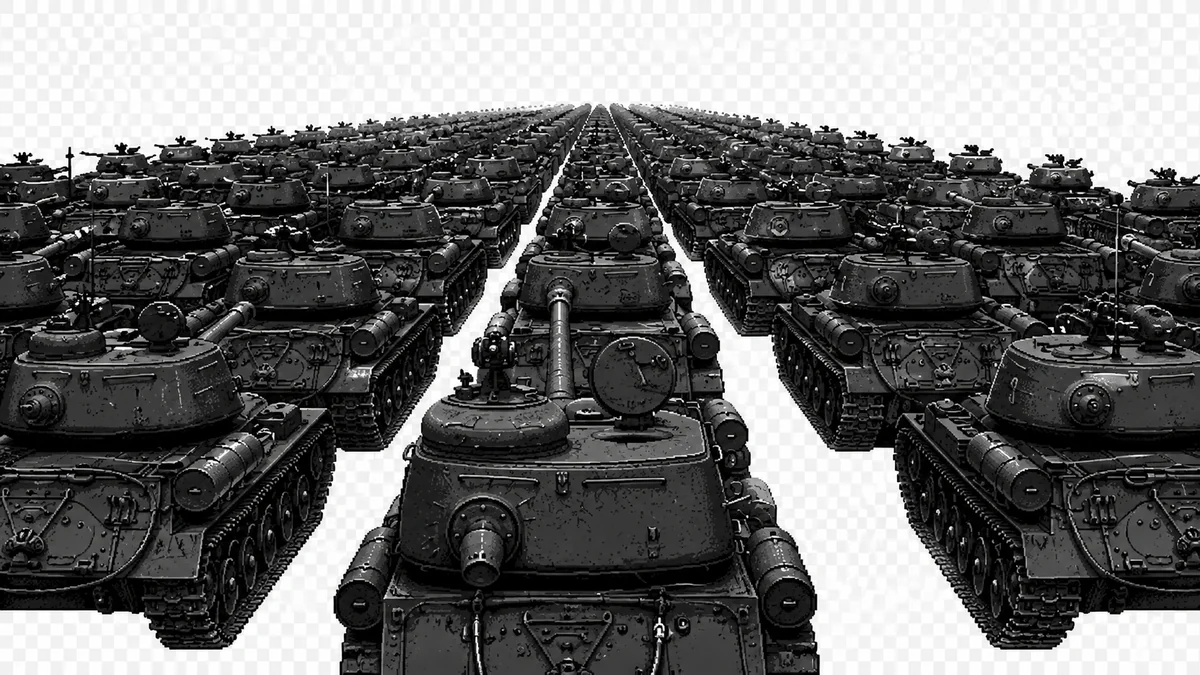
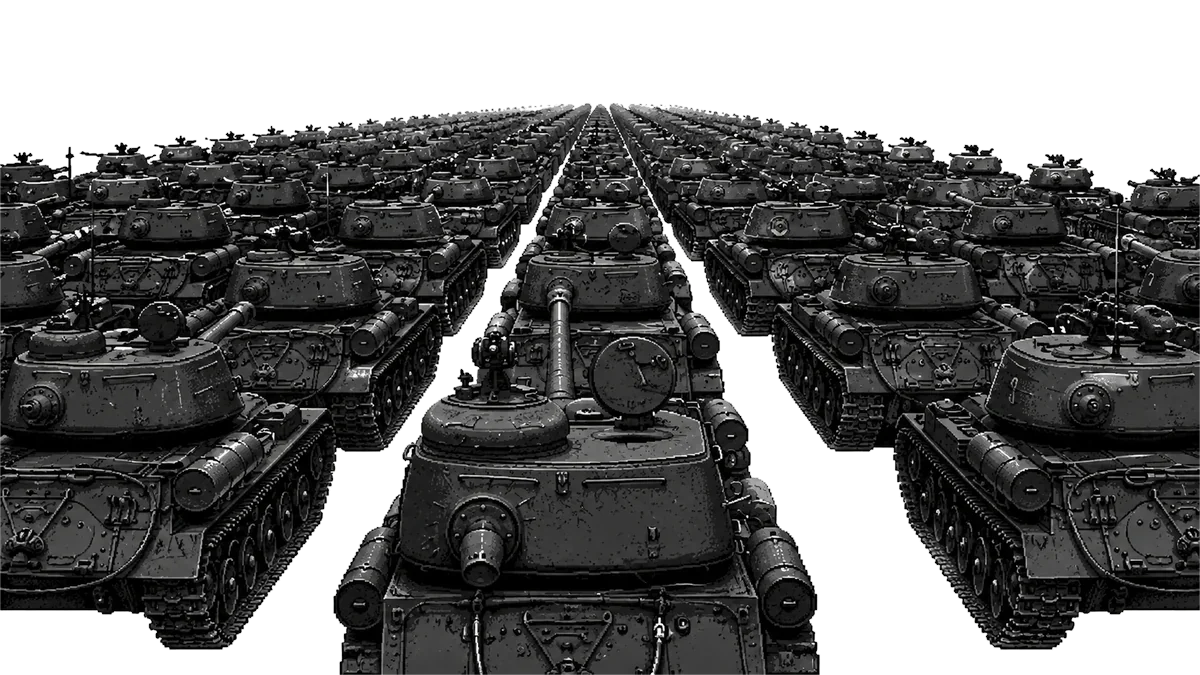
fix(menu): kill the white flash on scene cross-fade — chroma-key ALL silhouettes transparent
The white-bg scenes rendered via mix-blend multiply; CSS opacity on .hero-scene (the cross-fade) isolates
the group, so the white background flashed through mid-transition. Fix: border flood-fill chroma-keyed the
4 white-bg sources (Родина, parade, St Basil's, tanks) to true transparency, so ALL 6 now render with
normal blend (.alpha) — opacity-fading transparent images can't show white. Bumped .alpha brightness
.3→.46 so the photographic scenes (parade/tanks) keep their detail while the statues stay dark. Verified:
a 2-scene overlap blends cleanly with zero white.

Changed region(s): [[0.2775, 0.9956, 0.6783, 1.0]]

diff --git a/index.html b/index.html
@@ -661,7 +661,7 @@
       mix-blend-mode: multiply; filter: contrast(1.08) saturate(1.05);
       animation: heroDrift 30s ease-in-out infinite alternate; -webkit-user-drag: none; user-select: none; }
     /* transparent-background source (no white to drop): show opaque + deepen to a dark monument silhouette */
-    .hero-scene > .sil-img.alpha { mix-blend-mode: normal; filter: brightness(.3) contrast(1.32) saturate(.4) drop-shadow(0 8px 26px rgba(0,0,0,.55)); }
+    .hero-scene > .sil-img.alpha { mix-blend-mode: normal; filter: brightness(.46) contrast(1.26) saturate(.45) drop-shadow(0 8px 26px rgba(0,0,0,.5)); }
     /* wide scene (a panoramic frieze, e.g. a parade): span the width, anchored at the bottom */
     .hero-scene.wide > .sil-img { height: auto; width: 104%; bottom: -2%; }
     .hero-scene.wide > .sil-img.alpha { width: 100%; }
@@ -846,7 +846,7 @@
       <!-- rotating monument tableaux (one .on at a time; JS cycles) -->
       <!-- 1 · РОДИНА-МАТЬ ЗОВЁТ — striding woman, sword thrust high, cloak streaming -->
       <div class="hero-scene on" data-cap="РОДИНА-МАТЬ ЗОВЁТ" data-en="The Motherland Calls">
-        <img class="sil-img" src="./assets/hero/rodina-mat.webp" alt="Родина-мать зовёт" draggable="false">
+        <img class="sil-img alpha" src="./assets/hero/rodina-mat.webp" alt="Родина-мать зовёт" draggable="false">
       </div>
       <!-- 2 · РАБОЧИЙ И КОЛХОЗНИЦА — two figures, hammer & sickle crossed overhead -->
       <div class="hero-scene" data-cap="РАБОЧИЙ И КОЛХОЗНИЦА" data-en="Worker &amp; Kolkhoz Woman">
@@ -854,7 +854,7 @@
       </div>
       <!-- 3 · СЛАВА СОВЕТСКОЙ АРМИИ — bayonet obelisk + a row of helmeted guardsmen -->
       <div class="hero-scene wide" data-cap="СЛАВА СОВЕТСКОЙ АРМИИ" data-en="Glory to the Soviet Army">
-        <img class="sil-img" src="./assets/hero/army-parade.webp" alt="Парад на Красной площади" draggable="false">
+        <img class="sil-img alpha" src="./assets/hero/army-parade.webp" alt="Парад на Красной площади" draggable="false">
       </div>
       <!-- 4 · ВПЕРЁД, К ПОБЕДЕ! — marching crowd, raised fists + banners -->
       <div class="hero-scene" data-cap="ВПЕРЁД, К ПОБЕДЕ!" data-en="Lenin — Forward, to Victory!">
@@ -862,11 +862,11 @@
       </div>
       <!-- 5 · ДВОРЕЦ СОВЕТОВ — Stalinist tiered skyline crowned with a star -->
       <div class="hero-scene" data-cap="ХРАМ ВАСИЛИЯ БЛАЖЕННОГО" data-en="St. Basil's · Red Square">
-        <img class="sil-img" src="./assets/hero/stbasil.webp" alt="Храм Василия Блаженного" draggable="false">
+        <img class="sil-img alpha" src="./assets/hero/stbasil.webp" alt="Храм Василия Блаженного" draggable="false">
       </div>
       <!-- 6 · БРОНЯ КРЕПКА — ranks of Soviet armour to the horizon -->
       <div class="hero-scene wide" data-cap="БРОНЯ КРЕПКА" data-en="Armour is Strong · Soviet Tanks">
-        <img class="sil-img" src="./assets/hero/tanks.webp" alt="Танковая мощь" draggable="false">
+        <img class="sil-img alpha" src="./assets/hero/tanks.webp" alt="Танковая мощь" draggable="false">
       </div>
       <div class="hero-haze"></div>
       <div class="hero-embers" id="heroEmbers"></div>
